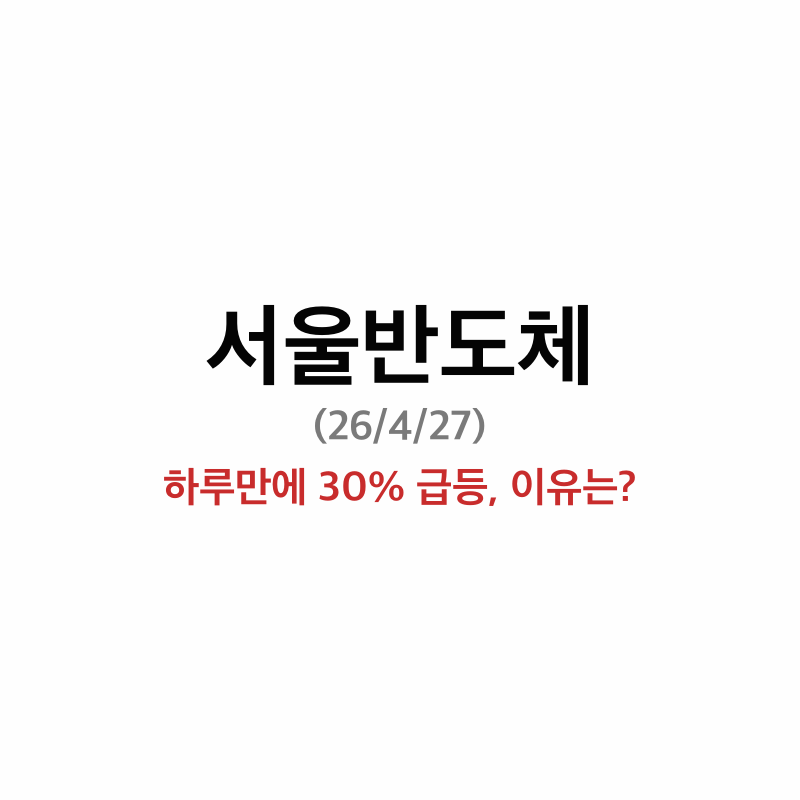
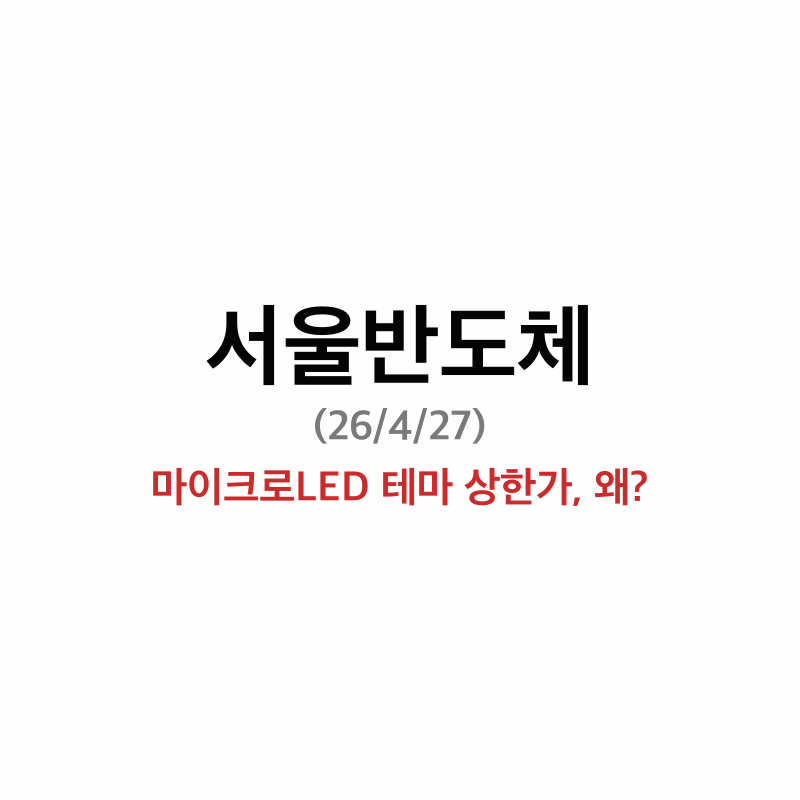
feat: 서울반도체 상한가 분석 포스트 (26/4/27)

Changed region(s): [[0.1875, 0.5625, 0.8125, 0.6562]]

diff --git a/seoul-semicon-0427/서울반도체.md b/seoul-semicon-0427/서울반도체.md
@@ -1,90 +1,62 @@
 ![서울반도체 썸네일](https://raw.githubusercontent.com/micael17/enterprise-agent-assets/main/images/seoul-semicon-0427-thumbnail.png)
-*서울반도체, 하루만에 30% 급등*
+*서울반도체(046890) 4/27 상한가 분석*
 
-# 서울반도체 상한가 분석 — 특허, 수급, 그리고 반도체 랠리
+# 서울반도체(046890) 상한가 분석 - 마이크로 LED 사업재편 승인 효과
 
-## 1. 이슈
+## 이슈
 
-오늘 4월 27일, 서울반도체가 상한가를 기록했다. 종가는 14,540원으로 전 거래일 대비 +29.94% 상승하며 가격제한폭까지 치솟았다.
+서울반도체가 4월 27일 상한가(+29.94%) 급등하며 14,540원에 마감했다.
+산업통상자원부의 사업재편 승인과 마이크로 LED 테마 강세가 주가 상승을 견인한 것으로 해석된다.
+자회사 서울바이오시스도 동반 상한가를 기록하며 그룹 전체에 훈풍이 불고 있는 상황이다.
 
-거래량은 920만 2,911주로 직전 거래일의 1,233만주 대비 약 7.5배 수준의 폭증세가 확인됐다. 4월 들어 일평균 거래량이 100만주 안팎이었던 점을 감안하면 수급이 한쪽으로 강하게 쏠린 흐름으로 풀이된다.
+## 뉴스
 
-## 2. 뉴스
+이번 급등의 가장 직접적인 재료는 산업자원부의 사업재편 승인이다. 매일일보는 ["LED 넘어 마이크로LED로"...서울반도체, 사업재편 승인](https://www.m-i.kr/news/articleView.html?idxno=1365488) 기사를 통해 AR 글래스용 마이크로 LED 모듈 개발에 본격 착수하게 됐다고 전했다.
 
-이번 급등의 배경에는 복수의 호재성 뉴스 흐름이 자리잡고 있는 것으로 해석된다.
+여기에 더해 올해 2월 미국 자회사 SETi의 특허 침해 소송 승소도 재평가 요인으로 작용했다. 뉴스핌은 [종목+ "특허 승소" 타고 다시 뜨는 서울반도체](https://www.newspim.com/news/view/20260409001256) 보도에서 법원이 레이저컴포넌츠 제품의 제조·판매·수입을 영구 금지하는 판결을 내렸다고 전했다.
 
-먼저 지난 4월 9일 뉴스핌은 서울반도체가 미국 자회사 세티(SETi)의 광반도체 특허 침해 소송 승소 이후 다시 시장의 주목을 받고 있다고 보도했다. 글로벌 LED 시장에서의 기술 경쟁력이 재차 부각된 사례로 풀이된다.
+당일 상한가와 관련해 조선비즈는 [서울반도체, +29.94% 상한가](https://biz.chosun.com/stock/c-biz_bot/2026/04/27/MZSWEYJYHE4GIZBQMZSWIN3CGU/) 보도를 통해 LED 테마 전반의 강세 흐름 속에서 외국인 매수세가 집중된 점을 확인했다.
 
-[[종목+] '특허 승소' 타고 다시 뜨는 서울반도체 — 뉴스핌](https://www.newspim.com/news/view/20260409001256)
+## 차트
 
-해당 특허 소송은 2월 24일 뉴스1을 통해 자세히 다뤄졌다. 자회사 세티가 독일 레이저컴포넌츠를 상대로 광반도체 특허 침해 소송에서 승리하며 미국 내 제조와 판매, 수입에 대한 영구 금지 명령을 확보했다는 내용이다.
+![주가/거래량 차트](https://raw.githubusercontent.com/micael17/enterprise-agent-assets/main/images/seoul-semicon-0427-chart-price.png)
+*서울반도체 최근 30일 일봉 및 거래량 추이*
 
-[서울반도체 美 자회사 세티, 광반도체 특허 소송 승리 — 뉴스1](https://www.news1.kr/industry/general-industry/6080892)
+![수급 차트](https://raw.githubusercontent.com/micael17/enterprise-agent-assets/main/images/seoul-semicon-0427-chart-investors.png)
+*외국인/기관/개인 누적 순매수 추이*
 
-수급 측면에서도 변화가 감지됐다. 4월 27일 네이트뉴스는 서울반도체에 대해 외국인이 8일 연속 순매수에 나섰다고 보도했다. 추세적인 외국인 매수세가 형성된 구간임을 시사하는 대목이다.
+## 수급
 
-[서울반도체, 외국인 8일 연속 순매수 — 네이트뉴스](https://news.nate.com/view/20260427n10387)
+외국인이 8일 연속 순매수를 지속하고 있는 점이 주목된다.
+최근 1주일간 500,809주를 순매수하며 저가 매집 의도가 뚜렷해 보인다.
+반면 기관은 같은 기간 77,465주를 순매도하며 차별화된 움직임을 나타냈다.
 
-같은 날 CBC뉴스는 서울반도체 주가가 상한가에 도달했다고 속보로 전했다. 누적된 호재가 단기간에 가격에 반영된 것으로 해석된다.
+개인투자자들의 거래량 급증과 함께 외국인의 꾸준한 매수세가 주가 상승의 버팀목 역할을 했다.
+특히 외국인 연속 순매수는 펀더멘털 개선에 대한 기대감을 반영하는 것으로 해석된다.
 
-[[속보] 서울반도체 주가 상한가 도달 — CBC뉴스](https://www.cbci.co.kr/news/articleView.html?idxno=570394)
+## 시황
 
-![서울반도체 일봉 차트](https://raw.githubusercontent.com/micael17/enterprise-agent-assets/main/images/seoul-semicon-0427-chart.png)
-*서울반도체 일봉 (4/7~4/27): 상단 주가, 하단 거래량*
+미국 증시는 나스닥과 S&P 500이 4월 25일 사상 최고치를 경신하며 강세를 지속했다.
+인텔 실적 호조와 TSMC의 견조한 성과가 반도체 섹터 전반의 상승을 견인했다.
+대형 기술주와 반도체 섹터로의 자금 쏠림 현상이 국내 반도체 관련주에도 긍정적 영향을 미쳤다.
 
-## 3. 수급
+마이크로 LED 테마는 전일 대비 3.96% 상승하며 루멘스, 큐에스아이 등 관련주들이 동반 상승세를 보였다.
+글로벌 반도체 업황 회복 기대감이 국내 LED 업체들에도 확산되고 있는 모습이다.
 
-![서울반도체 투자자별 순매수](https://raw.githubusercontent.com/micael17/enterprise-agent-assets/main/images/seoul-semicon-0427-investor.png)
-*서울반도체 투자자별 순매수 동향 (4/14~4/27)*
+## 펀더멘탈
 
-최근 10거래일 수급은 외국인과 기관이 뚜렷하게 엇갈린 양상으로 나타났다.
+서울반도체는 1987년 설립 이후 35년간 LED 전문기업으로 성장해 글로벌 LED 시장 점유율 3위(6.0%)를 차지하고 있다.
+핵심 기술인 와이캅(WICOP)은 기존 LED 대비 더 작고 얇으며 열과 충격에 강한 특성을 보유해 차별화 경쟁력을 확보했다.
 
-| 날짜 | 외국인 | 기관 | 개인 |
-|------|--------|------|------|
-| 4/14 | -33,386 | -82,722 | +120,156 |
-| 4/15 | -61,257 | -11,734 | +74,951 |
-| 4/16 | +106,253 | -56,108 | -51,145 |
-| 4/17 | +34,395 | -56,777 | +25,927 |
-| 4/20 | +64,170 | -12,145 | -52,025 |
-| 4/21 | +64,849 | +247 | -65,096 |
-| 4/22 | +168,155 | -23,702 | -137,745 |
-| 4/23 | +16,760 | -17,758 | +3,395 |
-| 4/24 | +187,149 | -24,107 | -162,953 |
-| 4/27 | **+580,291** | -53,651 | -164,472 |
-| **누적** | **+1,127,379** | **-338,457** | **-408,967** |
+산업통상자원부의 사업재편 승인으로 기존 LED 패키지에서 AR 글래스용 마이크로 LED 모듈로의 전환이 본격화될 전망이다.
+정부의 규제 특례, 세제 혜택, 금융 지원을 통해 신사업 진출의 기반이 마련됐다.
 
-외국인은 8거래일 연속 순매수하며 누적 약 112만주를 사들였다. 단순한 단기 매매라기보다는 추세적 매수가 진행된 구간으로 해석된다. 특히 상한가 당일에는 58만주의 대규모 순매수가 집중되며 매수세가 가속화된 모습이다.
+재무적으로는 2025년 277억원의 영업손실을 기록했으나 4분기 47억원 흑자 전환에 성공했다.
+2026년에는 매출 1조 560억원, 영업이익 161억원으로 본격적인 수익성 회복이 전망된다.
 
-반면 기관은 10거래일 연속 순매도를 이어가며 누적 약 33만주를 출회했다. 그간의 박스권 흐름 속에서 차익실현성 매도가 꾸준히 누적된 것으로 풀이된다.
-
-개인은 구간에 따라 매매 방향이 엇갈렸으나, 상한가 당일에는 16만주를 순매도하며 단기 청산 움직임을 보였다. 종합하면 수급의 무게중심이 외국인 쪽으로 기울어진 구도로 해석되며, 상한가의 직접적 주도 세력 또한 외국인 매수세였던 것으로 분석된다.
-
-## 4. 시황
-
-대외 환경도 우호적으로 조성됐다. 4월 24일 미국 시장에서 나스닥 지수는 24,836.60으로 +1.63% 상승하며 사상 최고치를 새로 썼다. S&P 500 또한 7,165.08로 +0.80% 오르며 신고가를 경신했다.
-
-업종별로는 필라델피아 반도체 지수가 10,513.7로 +4.32% 급등하며 시장 상승을 주도했다. 인텔이 분기 실적에서 시장 예상치를 큰 폭으로 상회하는 서프라이즈와 가이던스 상향을 동시에 발표하며 +23.6% 폭등했고, 이 흐름이 업종 전반의 랠리로 확산된 것으로 분석된다.
-
-엔비디아는 208.27달러로 +4.32%, 대만의 TSMC 또한 +4.33% 상승하며 장중 최고가를 새로 기록했다. 미국 반도체 업종의 강세 분위기가 4월 27일 국내 증시 개장과 함께 LED·광반도체 등 인접 업종으로 전이된 것으로 풀이되며, 서울반도체 상한가의 외부 트리거 역할을 한 것으로 주목된다.
-
-## 5. 펀더멘탈
-
-서울반도체는 1987년 설립된 LED 전문 기업으로 약 40년의 업력을 보유하고 있다. 2024년 옴디아 기준 글로벌 LED 시장 점유율은 6.0%로 세계 3위에 자리매김했으며, 1위 니치아(12.0%)와 2위 오스람(7.0%)의 뒤를 잇고 있다.
-
-핵심 경쟁력은 와이캅(WICOP) 기술로 대표되는 차별화된 패키지 구조와 광범위한 특허 포트폴리오다. 와이캅은 금선을 제거한 구조로 박형화와 내열·내충격 특성을 동시에 확보해 자동차 헤드램프와 실내 조명 등 고부가 영역에서 채용이 확대되고 있다. 지난 20년간 누적 100건 이상의 특허 소송 승소는 기술 진입장벽이 실제 사업적 해자로 작동하고 있음을 보여준다.
-
-실적 측면에서는 변곡점이 확인됐다. 2025년은 영업손실 277억원으로 3년 연속 적자 기조가 이어졌으나, 4분기 영업이익이 47억원으로 흑자 전환에 성공했다. 에프앤가이드 컨센서스 기준 2026년 연간 매출은 1조 560억원, 영업이익은 161억원으로 흑자 전환이 전망된다. 1분기 가이던스 또한 매출 2,400억~2,600억원 수준으로 제시되며 회복 흐름의 연속성에 무게가 실린다.
-
-종합하면 이번 상한가는 특허 승소로 대표되는 기술 경쟁력 재평가, 외국인 중심의 추세적 매수세, 미국발 반도체 업종 랠리가 동시에 맞물리며 발생한 복합형 이벤트로 해석된다. 단기 급등 이후 가격 변동성 확대가 불가피한 만큼, 펀더멘탈 회복의 실체와 수급 지속성을 함께 점검할 시점으로 풀이된다.
-
-앞으로 지켜볼 포인트는 다음과 같이 요약된다.
-
-첫째, 1분기 실적 발표 결과다. 가이던스 상단 부합 여부와 영업이익률 회복 강도가 흑자 전환 추세의 신뢰도를 결정짓는 변수로 작용할 전망이다.
-
-둘째, 마이크로 LED 매출의 실질적 인식 시점이다. 자회사 서울바이오시스의 와이캅 미니 기반 초박형 제품이 2026년 상반기 사이니지 분야에서 매출로 가시화되는지 여부가 중장기 성장성의 시금석이 될 것으로 주목된다.
-
-셋째, 광통신 사업의 구체화 진척이다. 광반도체 특허 자산을 기반으로 한 신규 사업 영역의 수주와 매출 인식 일정이 어떻게 공개되는지에 따라 멀티플 재평가 여부가 갈릴 것으로 풀이된다.
-
----
+**앞으로 지켜볼 포인트**
+1. 마이크로 LED 사업 전환 진행 상황과 수주 성과
+2. 와이캅 기술 기반 자동차용 LED 확산 속도
+3. 2026년 실적 가이던스 달성 여부와 수익성 개선 지속성
 
 * 본 포스팅은 개인 의견이며 투자 판단의 책임은 본인에게 있습니다.

diff --git a/seoul-semicon-0427/research_data.md b/seoul-semicon-0427/research_data.md
@@ -1,0 +1,53 @@
+# Research Data: 서울반도체 (046890)
+
+## 주가 현황 (4월 27일)
+- 상한가 (+29.94%), 종가 14,540원
+- VI 발동 (0.00%)
+- 52주 저점 5,830원 대비 약 150% 상승
+- 연초 이후 지속적인 상승세
+
+## 주요 이슈
+
+### 1. 마이크로 LED 테마 강세
+- 4/27 마이크로 LED 테마 전일 대비 +3.96% 상승
+- 자회사 서울바이오시스(092190)도 상한가 (+29.99%)
+- LED 테마 전반 강세: 루멘스, 큐에스아이 등 동반 상승
+
+### 2. 사업재편 승인 (4/15 산업통상자원부 승인)
+- LED 패키지 → AR 글래스용 마이크로 LED 모듈로 사업 전환
+- 핵심 기술 '와이캅(WICOP)' 적용
+- 정부 사업재편 제도 활용 — 규제 특례, 세제 혜택, 금융 지원
+- 메인비즈협회 지원, 제51차 사업재편계획 통과
+
+### 3. 특허 승소 (2/24)
+- 미국 자회사 SETi, 레이저컴포넌츠 상대 특허 침해 소송 승소
+- 법원: 제조·판매·수입 영구 금지 명령
+- 유럽 UPC에서도 판매 금지·회수·파기 명령
+- 20여년간 100건 이상 특허 소송 승소
+- 핵심 특허: 광반도체 효율 개선 기술 (전류/층 구조 최적화), AR 글라스·HBM 등 활용 가능
+
+### 4. 실적 전망
+- 2025년 영업손실 277억원 (3년 연속 적자)
+- 2025년 4분기 영업이익 47억원 — 흑자 전환
+- 2026년 1분기 매출 전망: 2,400~2,600억원
+- 2026년 연간 전망: 매출 1조 560억원, 영업이익 161억원 (흑자 전환)
+- 자동차용 LED 확대, WICOP 기반 헤드램프·실내 조명 공급
+
+### 5. 외국인 수급
+- 외국인 8일 연속 순매수 (4/27 기준)
+- 최근 1주일 외국인 500,809주 순매수
+- 기관은 동기간 77,465주 순매도
+
+### 6. 미국 시장 동향
+- 나스닥·S&P 500 사상 최고치 경신 (4/25)
+- 인텔 실적 호조 → 반도체 섹터 강세 주도
+- TSMC 실적 호조 지속
+- 대형 기술주·반도체 섹터로 자금 쏠림 현상
+
+## 회사 개요
+- 설립: 1987년 (1992년 LED 사업 진출)
+- 주요 사업: 조명, 자동차, IT, UV 광반도체(LED)
+- 글로벌 LED 3위 (니치아 12.0%, 오스람 7.0%, 서울반도체 6.0% — 2024 옴디아)
+- 핵심 기술: WICOP (와이캅) — 금선 제거 구조, 더 작고 얇으며 열·충격에 강함
+- 생산 거점: 한국, 베트남, 미국, 중국
+- 자회사: 서울바이오시스 (마이크로 LED), SETi (미국 특허 법인)
